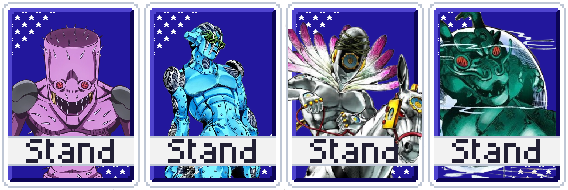
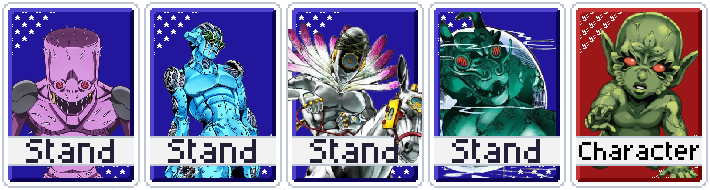
Add Green Baby joker

diff --git a/README.md b/README.md
@@ -43,6 +43,6 @@ JoJo's Bizarre Adventure is property of Hirohiko Araki.
 - Better localization for jokers with initial text strings (joseph pt 2, sex pistols, etc)
 - Add new title screen art
 - Add config for developer mode (off by default, includes tests when on)
-- Add option to show localized stand names instead of official ones
+- Add option to show localized stand names instead of official ones (https://github.com/nh6574/VanillaRemade/wiki#how-do-i-change-the-name-or-description-of-a-card-dynamically)
 - Add a card holo effect for legendary jokers
 - Add more jokers
